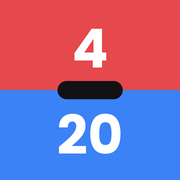
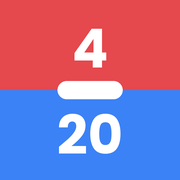
Icoon: witte streep
Claude-Session: https://claude.ai/code/session_01Cy4N5N9ZBvSeUuAcCRKvfv

Changed region(s): [[0.3056, 0.4444, 0.6944, 0.5556]]

diff --git a/sw.js b/sw.js
@@ -1,5 +1,5 @@
 /* Offline support: serve the app from cache, refresh the cache in the background */
-const CACHE = 'scorebord-v3';
+const CACHE = 'scorebord-v4';
 const FILES = ['./', './index.html', './manifest.webmanifest', './icon-192.png', './icon-512.png', './apple-touch-icon.png'];
 
 self.addEventListener('install', e => {
